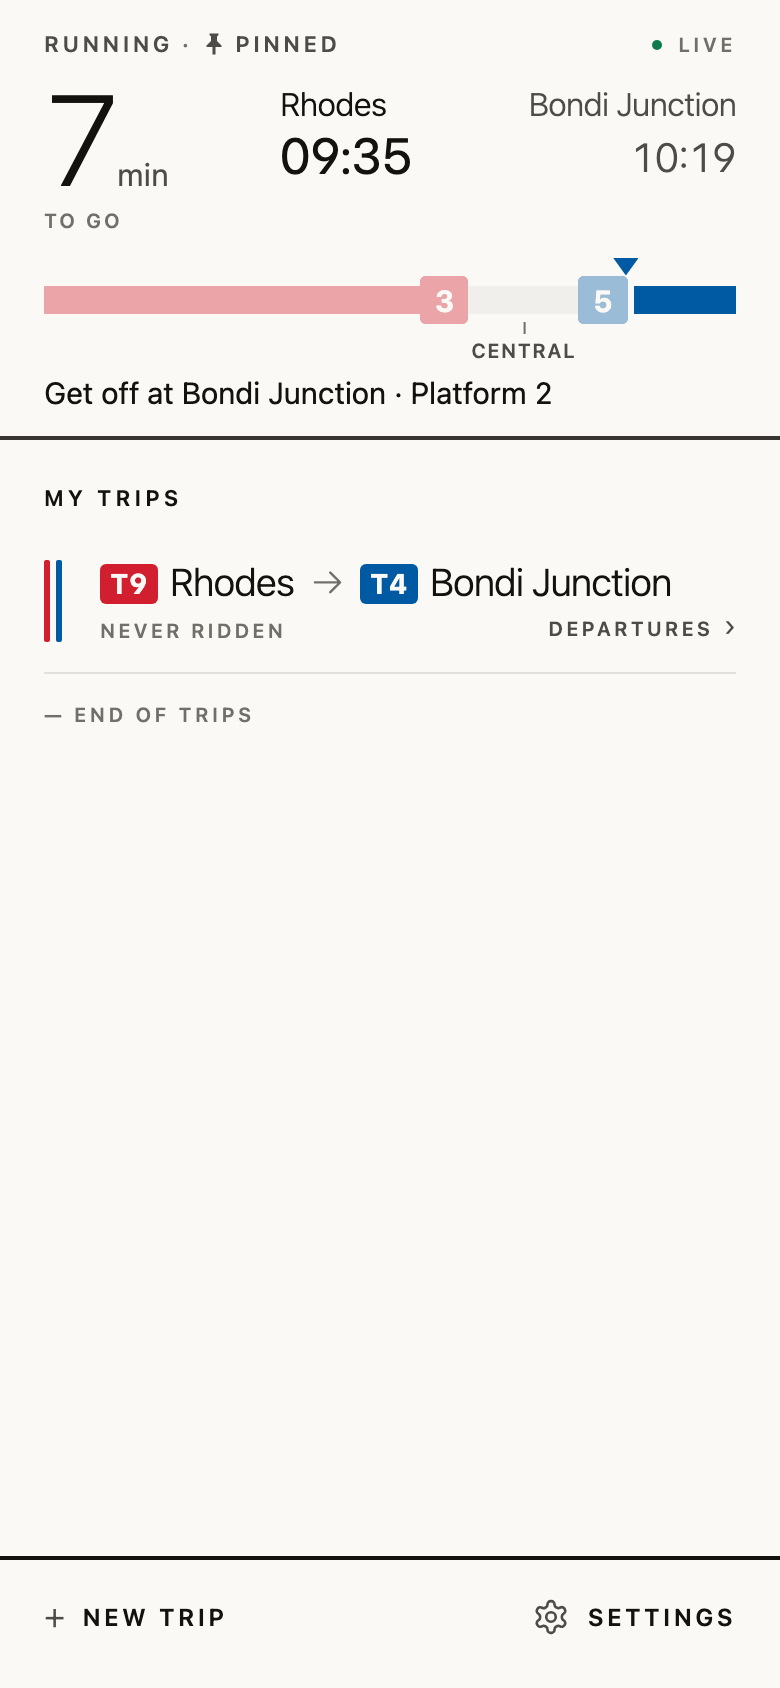
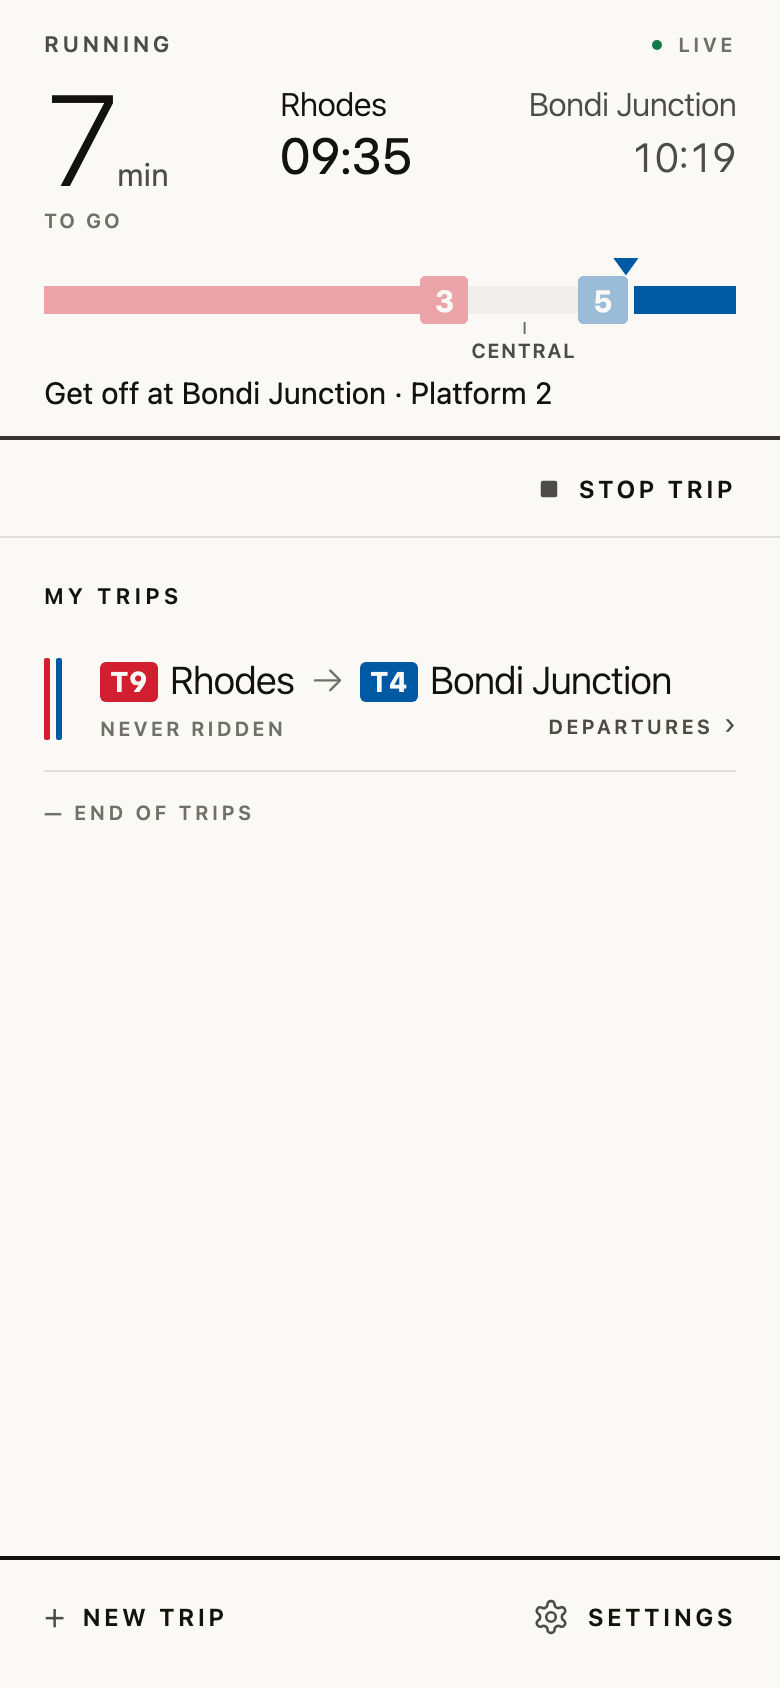
Recapture the commute-feedback web frames: Checking arrival replaces missing telemetry
The four missing-telemetry frames showed the removed stopped Arrival
unconfirmed state; check-commute-feedback.js now drives guarded Home to
Checking arrival (three minutes past the estimate, inside the evidence
wait) and asserts the removed copy is gone and Stop trip is on the line.
They are saved as c1-fade-<size>-checking-arrival[-light].png. The twelve
C1 transfer captures are retaken: they differ from the 1.7.1 frames only by
PINNED leaving the status and the started trip's STOP TRIP line. Its
recommendation flow now starts and stops from Start trip / Stop trip.
verification.json and the README record 1.9.0, service worker v73.

node tools/check-commute-feedback.js (all sections) passed.

diff --git a/tools/check-commute-feedback.js b/tools/check-commute-feedback.js
@@ -885,14 +885,15 @@ async function checkRecommendation() {
       if (document.querySelector('[data-t="footer"]')?.textContent.trim() !== 'Live') {
         throw new Error('chosen detail lost its page source freshness');
       }
-      const pin = document.querySelector('[data-act="focus"]');
-      if (!pin) throw new Error('chosen recommendation detail has no pin action');
-      pin.click();
-      await wait(() => t.state.doc.focus && t.state.view === 'home' && document.querySelector('[data-act="unpin"]'),
-        'pin action did not return to focused Home');
-      if (keyOf(t.state.doc.focus.journey) !== expected) throw new Error('pin persisted a different journey');
-      document.querySelector('[data-act="unpin"]').click();
-      await wait(() => !t.state.doc.focus, 'unpin did not clear recommendation focus');
+      const start = document.querySelector('[data-act="focus"]');
+      if (!start) throw new Error('chosen recommendation detail has no Start trip action');
+      start.click();
+      const stop = '[data-tripline="started"] [data-act="stop-trip"]';
+      await wait(() => t.state.doc.focus && t.state.view === 'home' && document.querySelector(stop),
+        'Start trip did not return to Home with Stop trip');
+      if (keyOf(t.state.doc.focus.journey) !== expected) throw new Error('Start trip persisted a different journey');
+      document.querySelector(stop).click();
+      await wait(() => !t.state.doc.focus, 'Stop trip did not clear the recommendation focus');
 
       location.hash = '#/settings';
       await wait(() => document.querySelector('.st-transfer-row'), 'Settings did not open');
@@ -993,19 +994,26 @@ async function captureGuardedHome() {
         await configurePage(page, focusedConfig(journey), documentFor(journey), { width, height, scheme });
         await evaluate(page, async () => {
           const t = window.__trains;
-          for (let index = 0; index < 120 && t.state.arrivalDecision?.state !== 'arrivalUnconfirmed'; index += 1) {
+          for (let index = 0; index < 120 && t.state.arrivalDecision?.state !== 'checkingArrival'; index += 1) {
             t.tick();
             await new Promise((resolve) => setTimeout(resolve, 25));
           }
-          if (t.state.arrivalDecision?.state !== 'arrivalUnconfirmed') {
-            throw new Error(`guarded Home did not reach arrivalUnconfirmed: ${t.state.arrivalDecision?.state}`);
+          if (t.state.arrivalDecision?.state !== 'checkingArrival') {
+            throw new Error(`guarded Home did not reach checkingArrival: ${t.state.arrivalDecision?.state}`);
           }
           const text = document.body.textContent;
-          if (!text.includes('Arrival unconfirmed') || !text.includes('Arrival time needs an update.')) {
-            throw new Error('guarded Home capture has the wrong missing-evidence copy');
+          if (document.querySelector('[data-focus-status]')?.textContent.trim() !== 'Checking arrival'
+              || !text.includes('Checking arrival at Bondi Junction.')) {
+            throw new Error('guarded Home capture has the wrong checking copy');
+          }
+          if (text.includes('Arrival unconfirmed') || text.includes('Arrival time needs an update.')) {
+            throw new Error('guarded Home capture shows the removed stopped state');
           }
           if (/\b0\s*min\s*to go\b/i.test(text) || document.querySelector('[data-act="way-back"]')) {
             throw new Error('guarded Home capture contains finished-trip UI');
+          }
+          if (!document.querySelector('[data-tripline="started"] [data-act="stop-trip"]')) {
+            throw new Error('a started trip checking its arrival has no Stop trip');
           }
           const all = [...document.querySelectorAll('body *')];
           const worst = all.reduce((answer, element) => {
@@ -1016,10 +1024,10 @@ async function captureGuardedHome() {
           }, { overflow: 0, tag: '' });
           if (worst.overflow > 0.5) throw new Error(`horizontal overflow ${JSON.stringify(worst)}`);
         });
-        const file = path.join(outDir, `home-guarded-${width}x${height}-${scheme}.png`);
+        const file = path.join(outDir, `home-checking-arrival-${width}x${height}-${scheme}.png`);
         fs.writeFileSync(file, await screenshot(page));
       });
-      console.log(`PASS guarded Home ${width}x${height} ${scheme}`);
+      console.log(`PASS guarded Home checking arrival ${width}x${height} ${scheme}`);
     }
   }
 }

diff --git a/assets/comps/latest/commute-feedback/README.md b/assets/comps/latest/commute-feedback/README.md
@@ -3,9 +3,10 @@
 Owner ruling, 2026-09-09: “use C1, and make sure the platform number carries
 the same lower contrast after the transfer.”
 
-The transfer before/during/after and missing-telemetry frames are verified web
-client captures for 1.7.1 (service worker v67), replacing their illustrative
-targets. Reproduce them with `tools/check-commute-feedback.js` against a local
+The transfer before/during/after and checking-arrival frames are verified web
+client captures for 1.9.0 (service worker v73), replacing their illustrative
+targets. They carry the started trip's `■ STOP TRIP` line and no `PINNED`
+(commute reliability, owner rulings 14-20). Reproduce them with `tools/check-commute-feedback.js` against a local
 server; see [tools instructions](../../../../tools/README.md).
 Both phone sizes (390×844 and 412×732) and schemes are captured at 2× resolution.
 `verification.json` records current frame hashes and distinguishes built
@@ -20,10 +21,15 @@ retain their [self-contained reproduction source](source/README.md).
 - Preserve normal contrast for the moving marker and upcoming platforms.
 - Retain the destination and label the last estimate when arrival is uncertain.
   Phone motion alone does not establish that the service is officially delayed.
+- There is no missing-evidence state: without movement a trip ends three
+  minutes after its estimate. Until then, and through the evidence wait, Home
+  reads `Checking arrival` with a dash and `Checking arrival at <destination>.`
 
 The before/during/after transfer frames move a synthetic clock through the same
-journey. The missing-location captures drive the real controller's guarded
-arrival state; the overdue target's marker remains illustrative. Arrival
+journey. The checking-arrival captures drive the real controller's guarded
+arrival state three minutes past the estimate, inside the evidence wait; the
+overdue target's marker remains illustrative, and as a comp target it predates
+the trip-control line. Arrival
 thresholds live in the [storage contract](../../../../docs/contracts/client-storage.md#final-arrival-decision).
 
 Lost connections and their recovery are time-only and live in the
